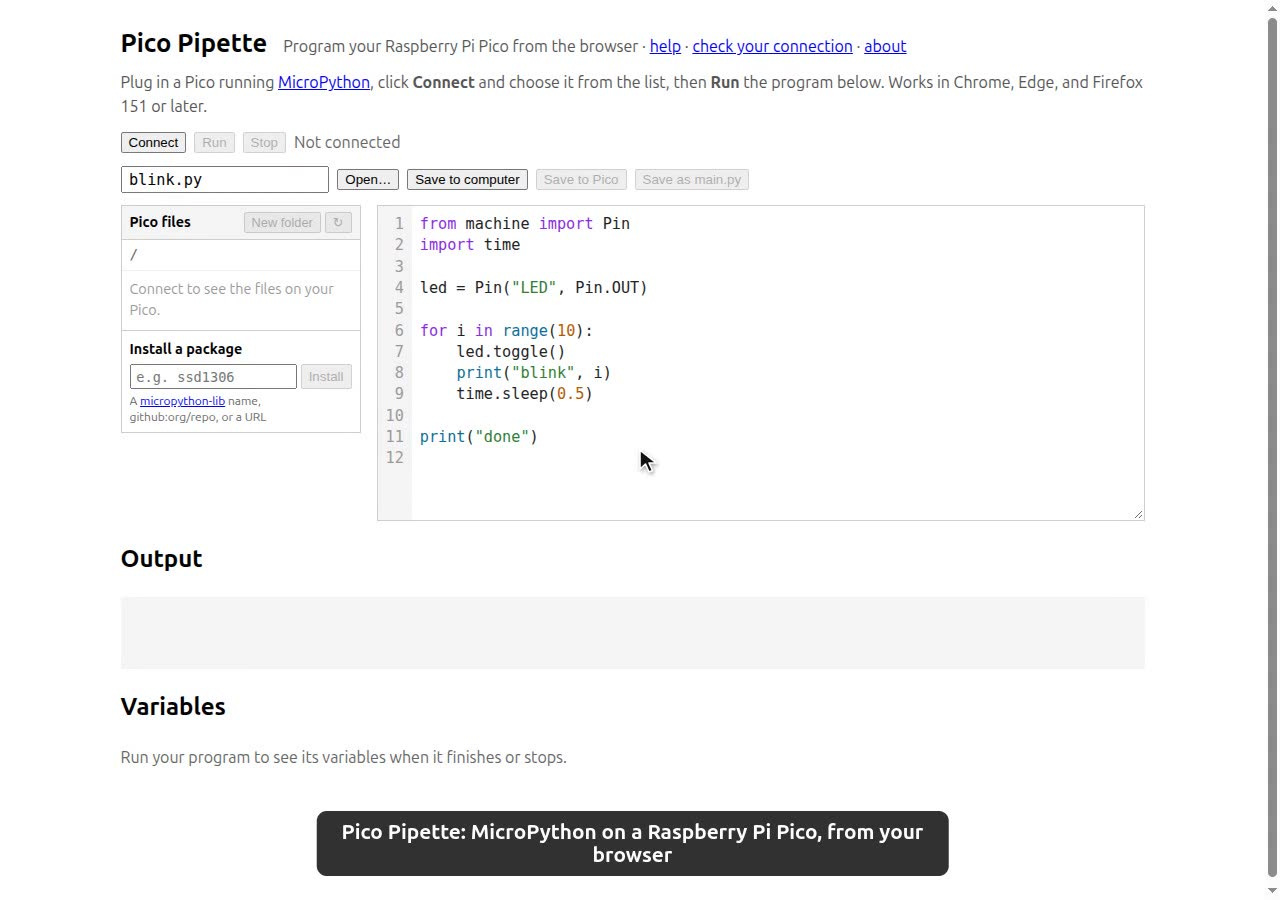
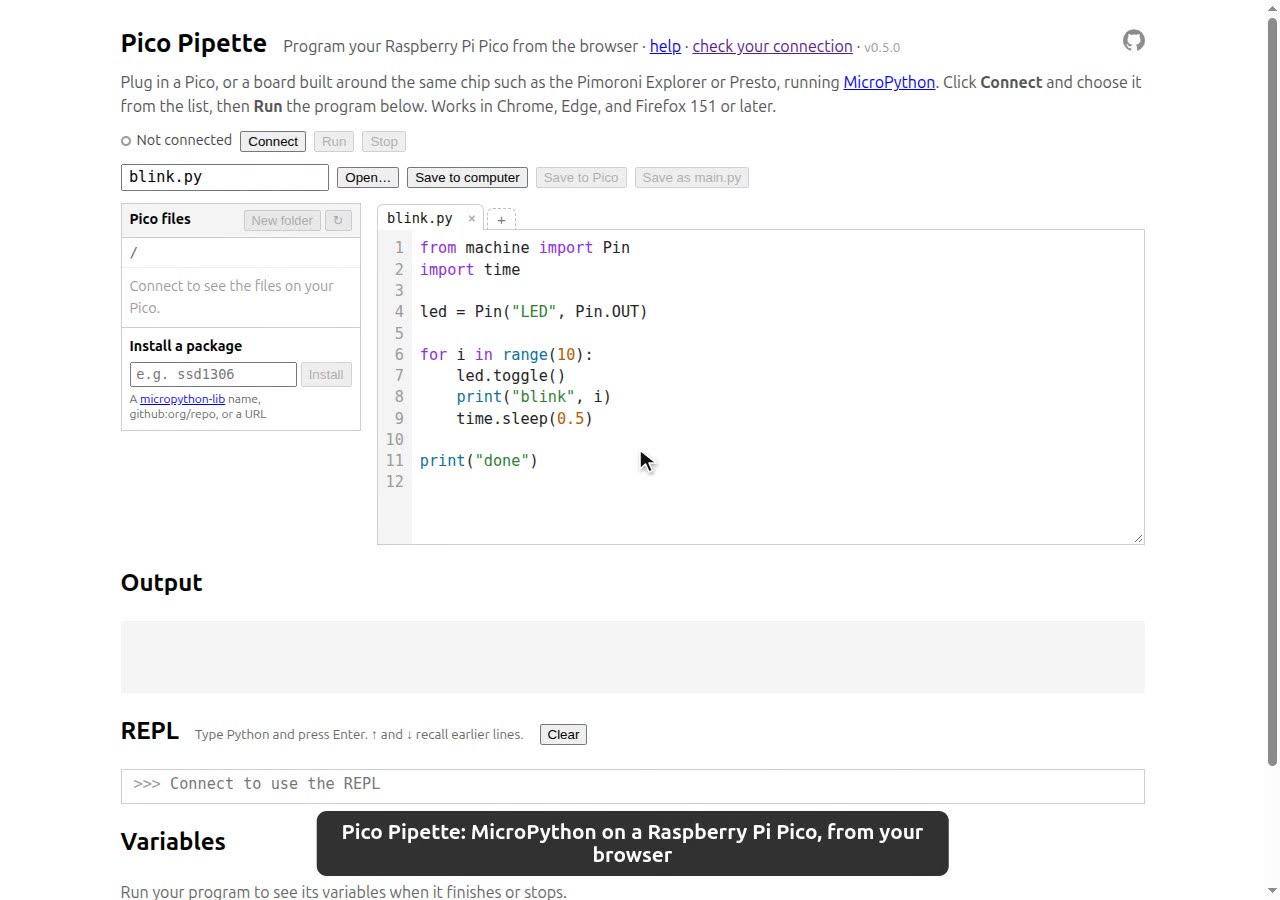
Docs: go-to-definition video, new posters, boards without a visible LED
- docs/demo.md becomes a Videos page with both demo videos; the tabs and
  definitions help pages play go-to-definition.mp4
- Posters taken from the updated demo.mp4 and from go-to-definition.mp4
- Tutorials: Explorer and Presto boards still show the output, even with no LED to see
- Troubleshooting: Pimoroni boards appear in the list; Pipette is for MicroPython, not CircuitPython

Claude-Session: https://claude.ai/code/session_01F93hjmYV9GhtpnGHdF8kkq

diff --git a/help/tabs.html b/help/tabs.html
@@ -25,6 +25,12 @@ not what's in its tab. So when you change <code>helpers.py</code>, use <b>Save t
 If you forget, Pipette reminds you when you click <b>Run</b>.</p>
 <p>If an error happens inside a file that's open in another tab, Pipette switches to that tab and marks the line.</p>
 
+<figure class="video">
+<video controls muted playsinline preload="none" poster="../docs/images/definition-poster.jpg" src="../demo/go-to-definition.mp4">
+  <a href="../demo/go-to-definition.mp4">Watch the video</a></video>
+<figcaption>A program in two files, each in its own tab (37 seconds)</figcaption>
+</figure>
+
 <nav class="pager"><a href="files.html">← Files</a> · <a href="../help.html">All help</a> · <a href="definitions.html">Finding where things are defined →</a></nav>
 </body>
 </html>

diff --git a/help/troubleshooting.html b/help/troubleshooting.html
@@ -24,7 +24,9 @@
 <h2>The list doesn't include my board</h2>
 <p>Pipette lists only boards that identify themselves over USB as Raspberry Pi boards, which Picos running MicroPython do.
 A board built on the same chip may identify itself as its maker's instead, depending on its MicroPython,
-and then it won't appear. The <a href="../check.html">connection checker</a> uses the same list.</p>
+and then it won't appear. Pimoroni's boards, such as the Explorer and Presto, do appear.
+The <a href="../check.html">connection checker</a> uses the same list.</p>
+<p>Pipette is for MicroPython, not CircuitPython, which is what most people use on Adafruit's boards.</p>
 
 <h2>The Pico is listed but won't connect</h2>
 <ul>

diff --git a/help/definitions.html b/help/definitions.html
@@ -26,6 +26,12 @@
     program, because it depends on what <code>led</code> holds.</li>
 </ul>
 
+<figure class="video">
+<video controls muted playsinline preload="none" poster="../docs/images/definition-poster.jpg" src="../demo/go-to-definition.mp4">
+  <a href="../demo/go-to-definition.mp4">Watch the video</a></video>
+<figcaption>Hints, and going to a definition in another file (37 seconds)</figcaption>
+</figure>
+
 <nav class="pager"><a href="tabs.html">← Tabs and programs in several files</a> · <a href="../help.html">All help</a> · <a href="packages.html">Packages →</a></nav>
 </body>
 </html>

diff --git a/help/help.css b/help/help.css
@@ -11,3 +11,6 @@ pre { background: #f4f4f4; padding: 0.6rem 0.8rem; overflow: auto; }
 .topics li { margin: 0.2rem 0; }
 .repo-link { position: absolute; top: 0.6rem; right: 1rem; line-height: 0; opacity: 0.45; transition: opacity 0.15s; }
 .repo-link:hover, .repo-link:focus-visible { opacity: 1; }
+.video { margin: 1.5rem 0; }
+.video video { width: 100%; height: auto; border: 1px solid #e5e5e5; }
+.video figcaption { color: #555; font-size: 0.9rem; }

diff --git a/docs/two-minute-tutorial.md b/docs/two-minute-tutorial.md
@@ -6,10 +6,9 @@ In two minutes you'll run a program on your Pico from your browser, change it, a
 
 You need:
 
-- a Raspberry Pi Pico or Pico 2, with or without wireless, with MicroPython on it. If it hasn't got MicroPython yet,
-  [put MicroPython on it](../help/micropython.html) first.
-  Pipette also works with boards built around the same chip, such as the Pimoroni Explorer and Presto,
-  but this tutorial blinks the Pico's own LED, which those boards may not have;
+- a Raspberry Pi Pico or Pico 2, with or without wireless, or a board built around the same chip,
+  such as the Pimoroni Explorer or Presto. It needs MicroPython on it: if it hasn't got MicroPython yet,
+  [put MicroPython on it](../help/micropython.html) first;
 - a USB cable that carries data, not just power;
 - Chrome, Edge, or Firefox 151 or later, on a desktop or laptop computer.
 
@@ -26,7 +25,8 @@ The dot beside the button turns green, and the files on your Pico appear on the 
 
 The editor already holds a program that blinks the Pico's LED. Click **Run**.
 
-The LED on the Pico blinks ten times, and the output appears under **Output**:
+The LED on the Pico blinks ten times, and the output appears under **Output**.
+(Boards such as the Explorer and Presto have no LED you can see, but you'll still get the output.)
 
 ```
 blink 0

diff --git a/docs/demo.md b/docs/demo.md
@@ -1,12 +1,24 @@
-# Pico Pipette in a minute
+# Videos
 
 [Pico Pipette documentation](index.md) · [Pico Pipette on GitHub](https://github.com/romilly/pico-pipette)
 
+## Pico Pipette in a minute
+
 <video controls muted playsinline preload="metadata" width="960" style="max-width: 100%; height: auto;"
   poster="images/demo-poster.jpg" src="../demo/demo.mp4">
-  <a href="../demo/demo.mp4">Download the demo video</a>
+  <a href="../demo/demo.mp4">Download the video</a>
 </video>
 
 Connecting, running a program, finding an error, stopping a program, saving it as `main.py`, and installing a package.
-
 Try it yourself with the [Two Minute Tutorial](two-minute-tutorial.md).
+
+## Tabs, hints and going to a definition
+
+<video controls muted playsinline preload="none" width="960" style="max-width: 100%; height: auto;"
+  poster="images/definition-poster.jpg" src="../demo/go-to-definition.mp4">
+  <a href="../demo/go-to-definition.mp4">Download the video</a>
+</video>
+
+A program in two files: a helpers module saved on the Pico, and a program that imports it.
+Resting the pointer on a name shows where it's defined, and Ctrl-click goes there, opening the other file from the Pico.
+See [Tabs and programs in several files](../help/tabs.html) and [Finding where things are defined](../help/definitions.html).

diff --git a/README.md b/README.md
@@ -8,7 +8,7 @@ a "Run on your Pico" editor in their own lesson pages.
 
 - [Two Minute Tutorial](https://romilly.github.io/pico-pipette/docs/two-minute-tutorial.html): blink the LED and see how errors are shown
 - [Five Minute Tutorial](https://romilly.github.io/pico-pipette/docs/five-minute-tutorial.html): stop a program, look inside it, and make it run at power-up
-- [Pico Pipette in a minute](https://romilly.github.io/pico-pipette/docs/demo.html): a one-minute video
+- [Videos](https://romilly.github.io/pico-pipette/docs/demo.html): Pipette in a minute, and going to a definition
 
 ![Pico Pipette after a failed run: the failing line marked, the output, the error and the variables left behind](https://romilly.github.io/pico-pipette/docs/images/overview.png)
 

diff --git a/docs/developers.md b/docs/developers.md
@@ -25,7 +25,7 @@ help.html       the user guide's index
 help/           the user guide's pages, and help.css
 check.html      the connection checker
 examples/       how other pages can use Pipette
-docs/           this documentation, published on GitHub Pages (docs/demo.md plays demo/demo.mp4)
+docs/           this documentation, published on GitHub Pages (docs/demo.md plays the videos in demo/)
 demo/           scripted demos and the demo player
 src/
   picolink.js     runs code on a Pico over Web Serial, using MicroPython's raw REPL

diff --git a/docs/five-minute-tutorial.md b/docs/five-minute-tutorial.md
@@ -8,6 +8,9 @@ and make your program run on its own whenever the Pico has power.
 Do the [Two Minute Tutorial](two-minute-tutorial.md) first, so you're connected to your Pico at
 **<https://romilly.github.io/pico-pipette/>**.
 
+On a board with no LED you can see, such as the Pimoroni Explorer or Presto, every step works the same way,
+but you won't see the LED change.
+
 ## 1. Run a program that doesn't stop
 
 Select everything in the editor (Ctrl-A, or Cmd-A on a Mac) and replace it with this program:

diff --git a/docs/index.md b/docs/index.md
@@ -20,6 +20,8 @@ These pages cover using it, putting it in your own web pages, and working on it.
   <a href="../demo/demo.mp4">Watch the one-minute demo</a>
 </video>
 
+[More videos](demo.md): tabs, hints and going to a definition.
+
 ## How-to guides
 
 - [Put MicroPython on your board](../help/micropython.html)
